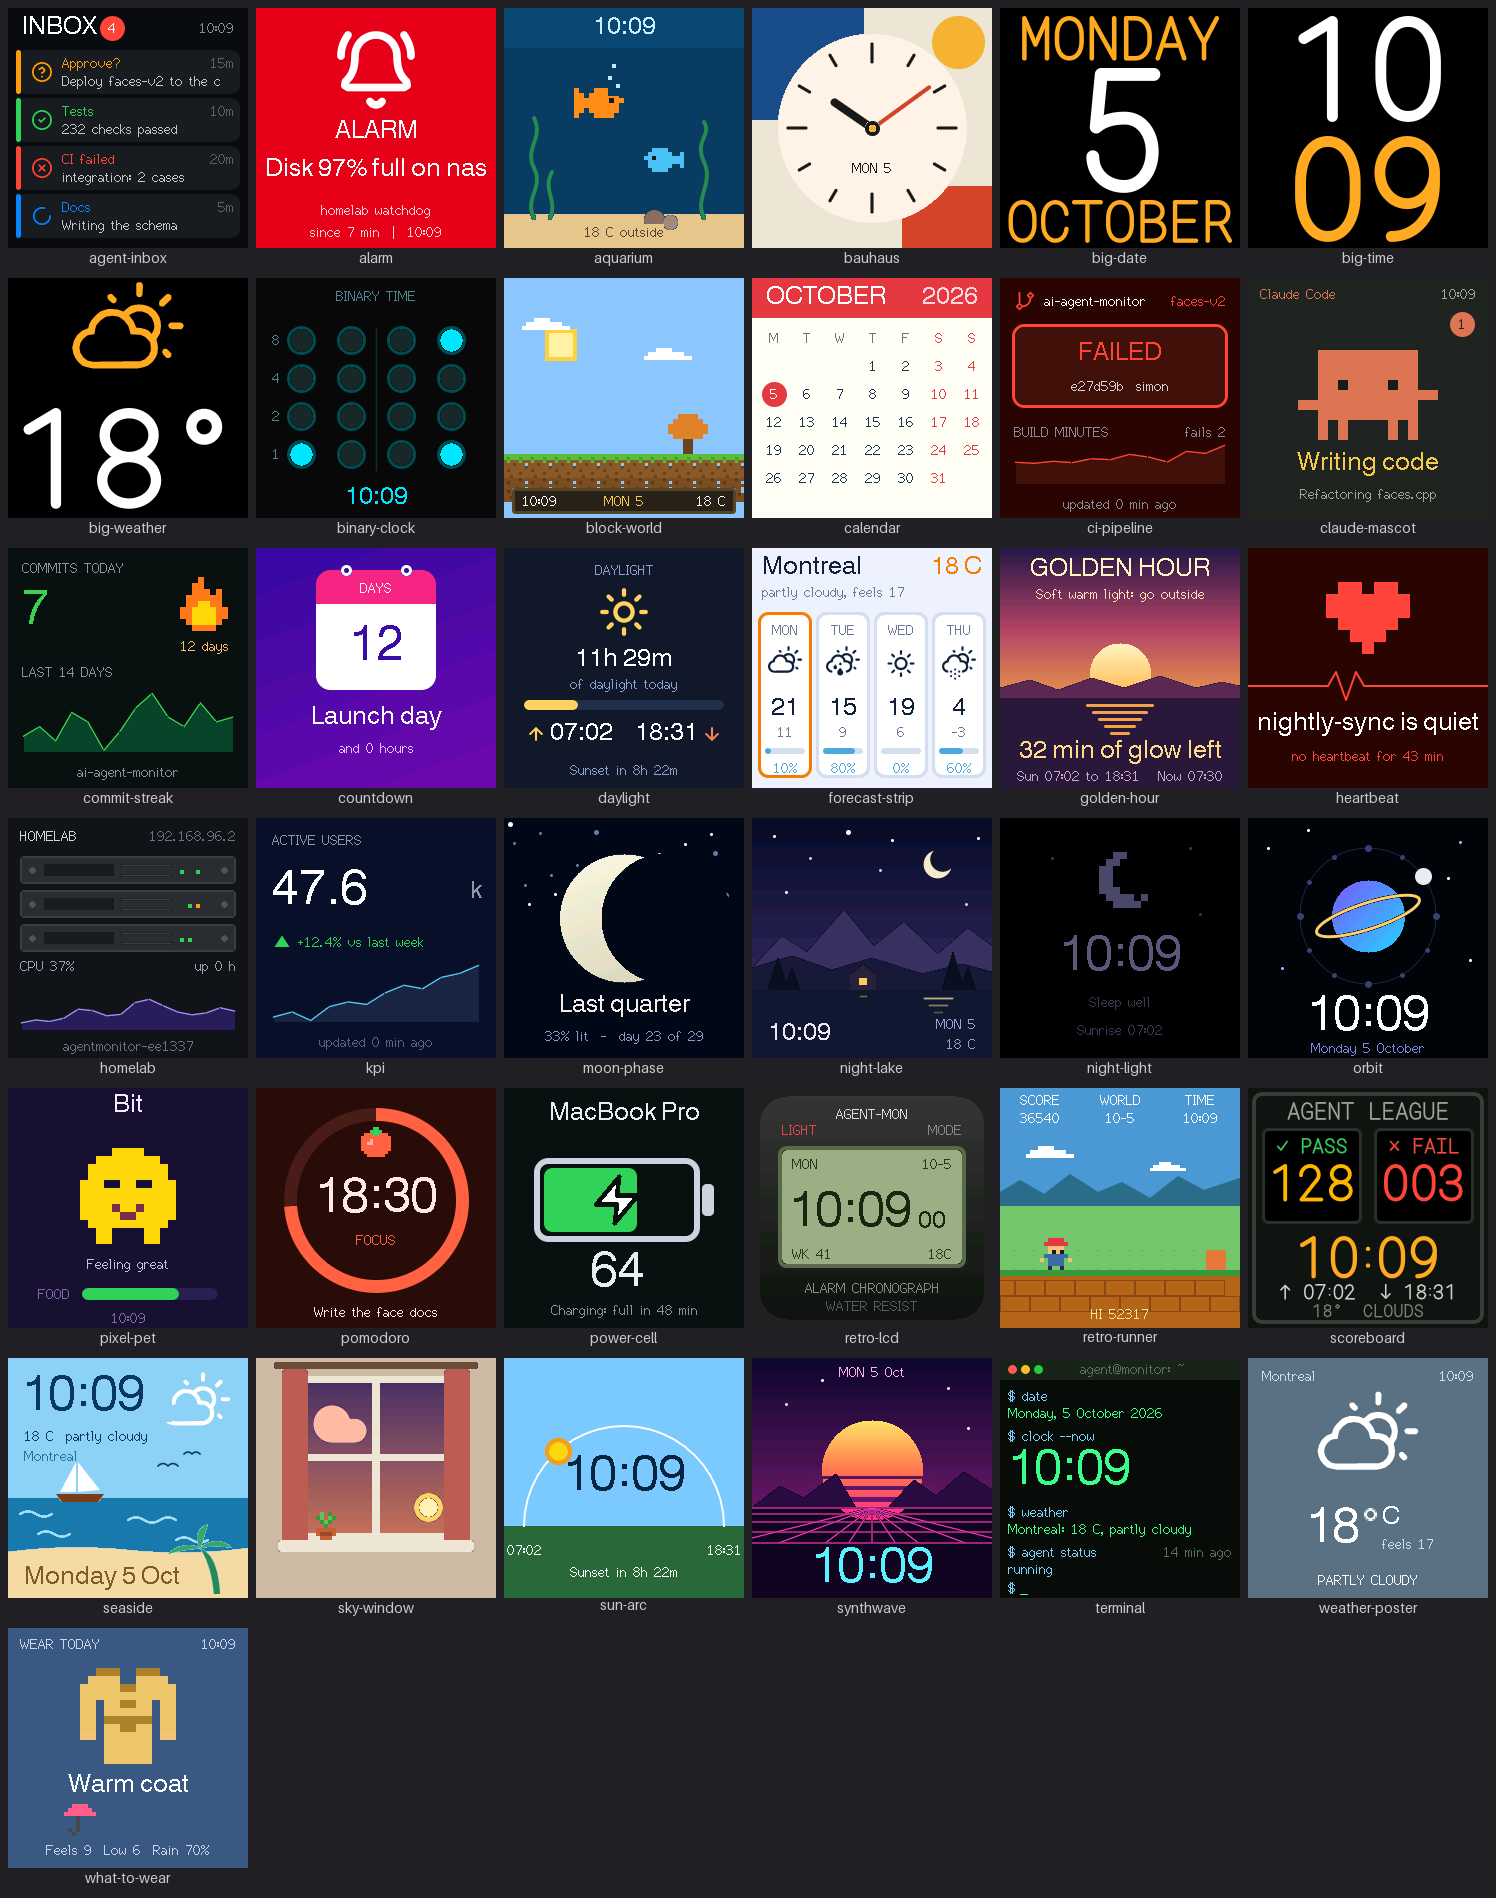
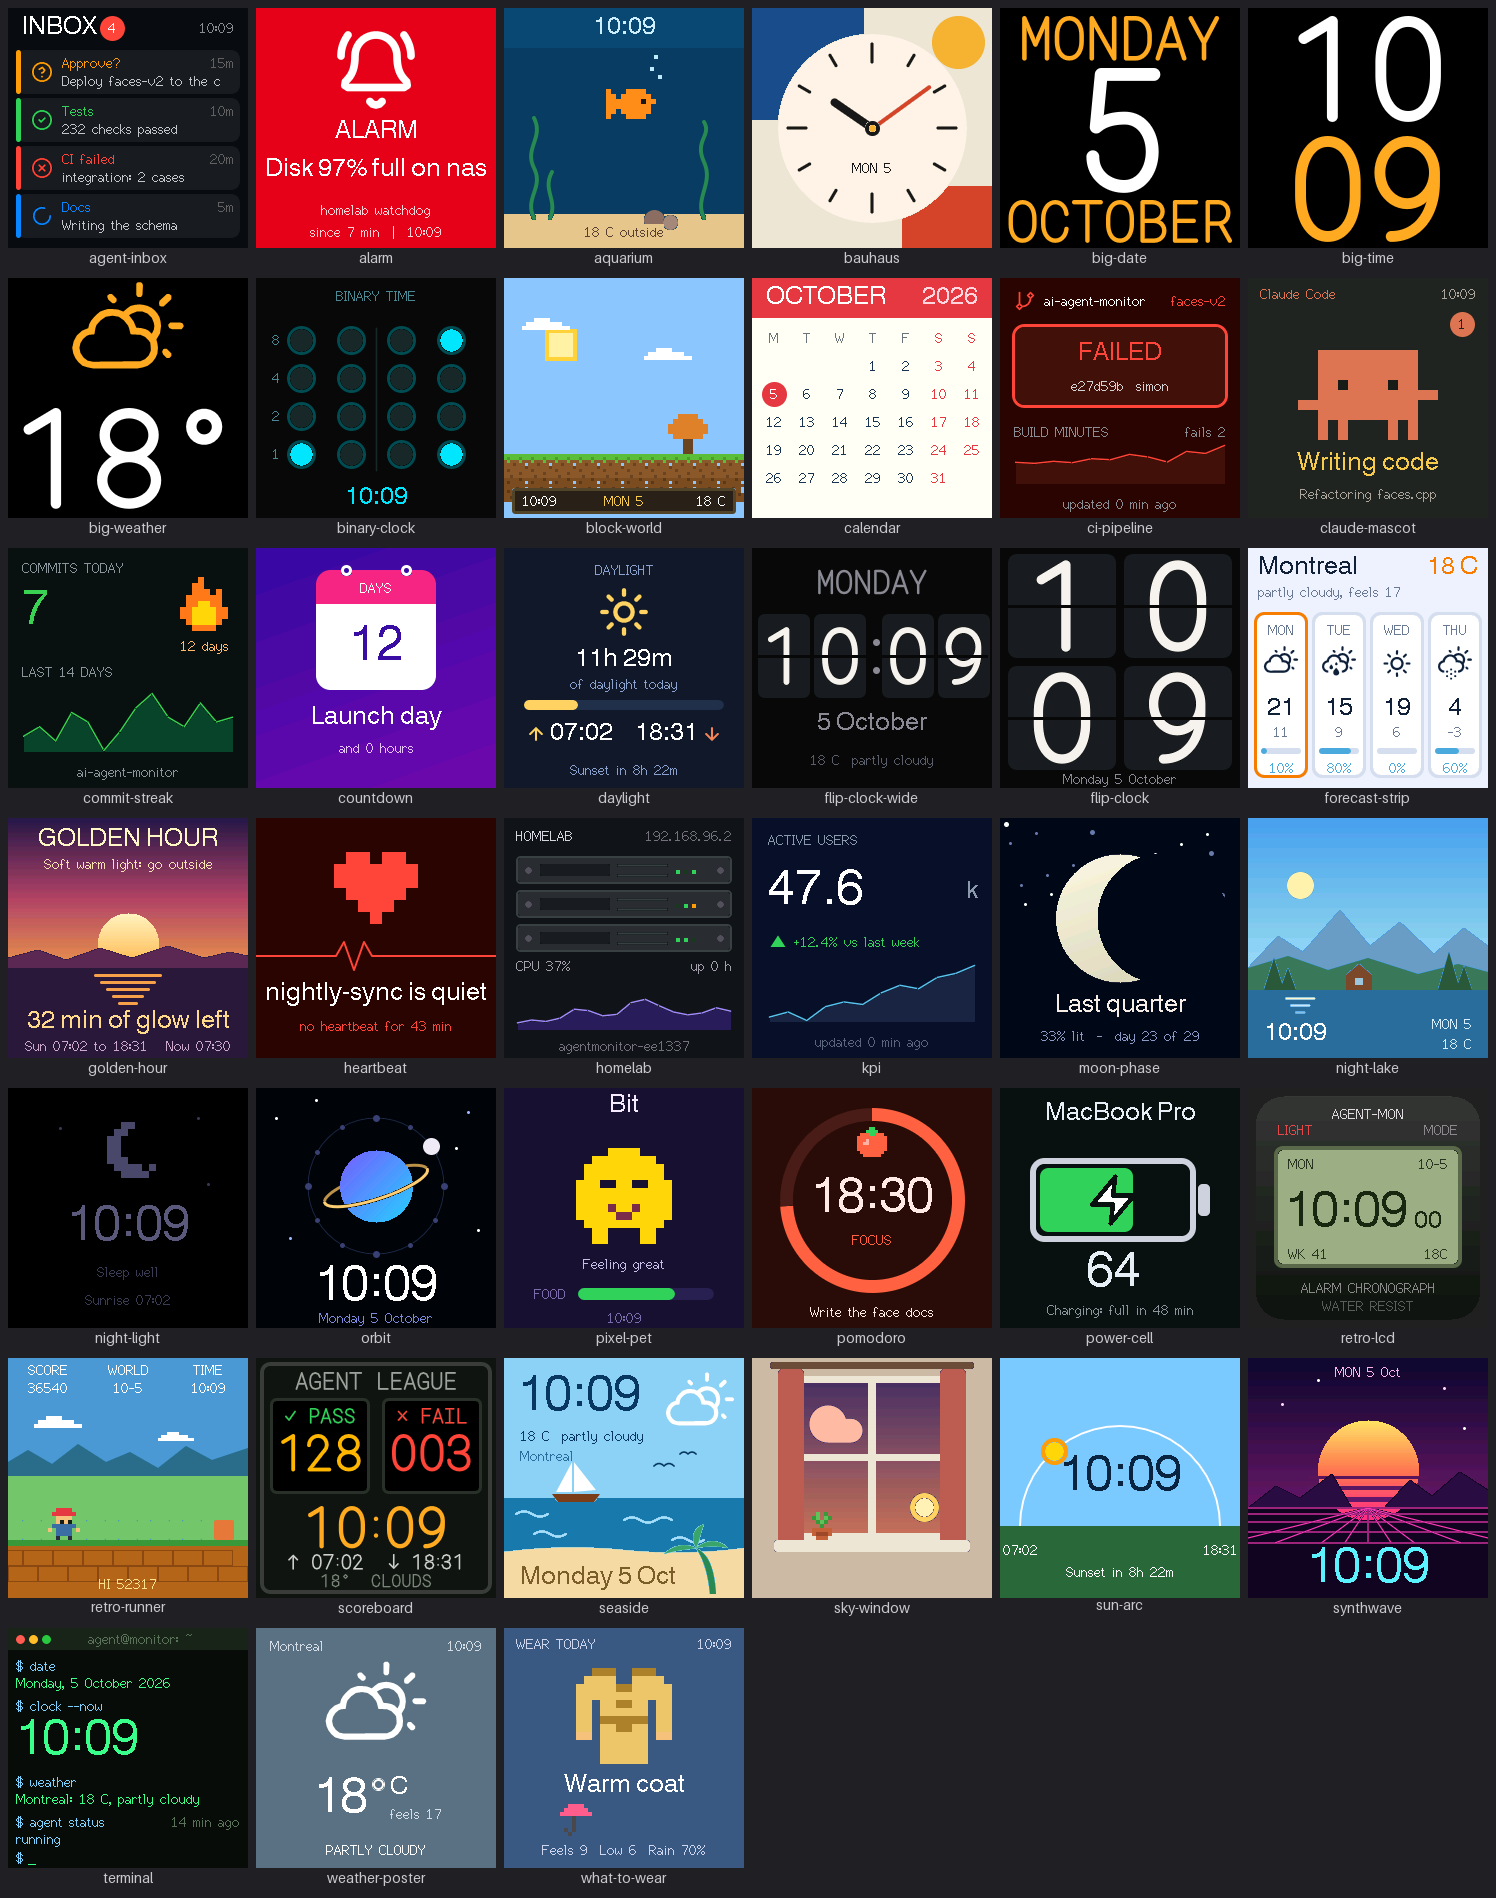
feat(examples): flip clocks, a night lake through the day, and face fixes
- New: flip-clock and flip-clock-wide, a leaf folding on each digit change.
- night-lake: night, dawn, day and dusk palettes; the sun and moon cross the
  sky and set behind the hills, their reflection follows them on the lake.
- aquarium: the fish swim, bubbles follow the orange one.
- claude-mascot: rising "z Z Z" while asleep.
- orbit: the ring passes behind the planet; sun-arc: the sun sets behind the
  grass; seaside: the weather icon is no longer cut by the time's padding.

diff --git a/examples/faces/README.md b/examples/faces/README.md
@@ -1,6 +1,6 @@
 # Example custom faces
 
-37 faces to use as they are, adapt, or learn the format from. Each is a JSON file to
+39 faces to use as they are, adapt, or learn the format from. Each is a JSON file to
 push to the clock (`POST /api/faces`, or `python clock.py push <name> <file>` from the
 Claude Code skill); the format is in
 [docs/specifications/integrations-api.md](../../docs/specifications/integrations-api.md#custom-faces).
@@ -18,8 +18,10 @@ curl -X POST "http://<clock>/api/faces/vars?key=<api key>" -d '{"pet": "Bit", "m
 
 | | Face | Shows how to |
 |---|---|---|
+| ![](../../docs/images/faces/flip-clock.png) | **flip-clock**: a flip clock, hours above minutes | One card per digit, `"font": "big"`; on the minute a leaf folds down to the hinge and the next drops, from `{time.sec}==0` and `{time.ms}` (`"fps": 10`); only the cards whose digit changed flip |
+| ![](../../docs/images/faces/flip-clock-wide.png) | **flip-clock-wide**: the flip clock on one line | The same cards, four in a row, with the day above and the date and weather below |
 | ![](../../docs/images/faces/bauhaus.png) | **bauhaus**: an analog clock in primary colours | Draw hands with `line` items and `sin`/`cos` expressions |
-| ![](../../docs/images/faces/orbit.png) | **orbit**: a planet that orbits once an hour | Move an item along a circle; hour marks from one `repeat` |
+| ![](../../docs/images/faces/orbit.png) | **orbit**: a ringed planet and a moon that orbits once an hour | Move an item along a circle; hour marks from one `repeat`; the ring in two halves, one drawn before the planet and one after |
 | ![](../../docs/images/faces/retro-lcd.png) | **retro-lcd**: a 1980s digital watch | Layer opaque text (`bg`) on a panel; `{date.week}` |
 | ![](../../docs/images/faces/binary-clock.png) | **binary-clock**: hours and minutes in binary | Compute every bit of a `repeat` of 16 with an expression |
 | ![](../../docs/images/faces/calendar.png) | **calendar**: the month, today circled | A 6-week grid from `{date.wdaynum}`, `{date.mdays}` and one `repeat`; weekday initials from a map |
@@ -35,13 +37,13 @@ curl -X POST "http://<clock>/api/faces/vars?key=<api key>" -d '{"pet": "Bit", "m
 |---|---|---|
 | ![](../../docs/images/faces/forecast-strip.png) | **forecast-strip**: four days at a glance | `repeat` over `"days"` with `{it.*}`; a day/night palette; a border on today |
 | ![](../../docs/images/faces/weather-poster.png) | **weather-poster**: the sky's colour | A palette picked from `{now.code}` by an expression |
-| ![](../../docs/images/faces/sun-arc.png) | **sun-arc**: the sun's path across the sky | Place the sun from `{sun.until_set}` and `{sun.daylen}`; a moon at night |
+| ![](../../docs/images/faces/sun-arc.png) | **sun-arc**: the sun's path across the sky | Place the sun from `{sun.until_set}` and `{sun.daylen}`; a moon at night; drawn before the ground, so both set behind it |
 | ![](../../docs/images/faces/daylight.png) | **daylight**: day length and the next sunset | Hours and minutes from minutes in text expressions; sun or moon by `show` |
 | ![](../../docs/images/faces/moon-phase.png) | **moon-phase**: tonight's moon | Shade the moon from `{moon.lit}`; phase names from a map; a starfield `repeat` |
 | ![](../../docs/images/faces/seaside.png) | **seaside**: a beach that turns to night | A day/night palette; the weather icon |
-| ![](../../docs/images/faces/night-lake.png) | **night-lake**: mountains under the moon | Layered SVG paths |
+| ![](../../docs/images/faces/night-lake.png) | **night-lake**: a mountain lake through the day | Layered SVG paths; four palettes (night, dawn, day, dusk) chosen from `{sun.*}`; the sun and moon cross the sky and set behind the hills, their reflection follows them on the lake |
 | ![](../../docs/images/faces/synthwave.png) | **synthwave**: an 80s sunset | Gradients on paths and circles |
-| ![](../../docs/images/faces/aquarium.png) | **aquarium**: fish that swim in place | Animated `sprite` frames with a `bg`, so only they redraw |
+| ![](../../docs/images/faces/aquarium.png) | **aquarium**: fish that swim across | `sprite`s whose `x` and `y` follow `{time.sec}` and `{time.ms}`, with tail frames, and bubbles that follow the orange fish; a moving sprite repaints only around itself |
 | ![](../../docs/images/faces/what-to-wear.png) | **what-to-wear**: dress for today's weather | A palette and an outfit `sprite` frame from feels-like bands (°F converted in the expression); an umbrella, sunglasses or a scarf by `show` |
 | ![](../../docs/images/faces/sky-window.png) | **sky-window**: the sky through a window | A gradient from a palette picked by time of day (dawn, day, dusk, night) and weather; clouds from `{now.clouds}`; rain, snow or fog `repeat`s; a moon shaded by `{moon.lit}`; walls drawn last to clip the sky |
 | ![](../../docs/images/faces/golden-hour.png) | **golden-hour**: the hour of warm light | `"when"`: only in the hour after sunrise and before sunset, with its own `duration`; the sun sinks with `{sun.until_set}` |
@@ -61,7 +63,7 @@ curl -X POST "http://<clock>/api/faces/vars?key=<api key>" -d '{"pet": "Bit", "m
 | ![](../../docs/images/faces/homelab.png) | **homelab**: servers and CPU | Blinking LED sprites; `{net.ip}`, `{net.host}`, `{sys.uptime}`; a `spark`. Push `cpu` with `$history` |
 | ![](../../docs/images/faces/power-cell.png) | **power-cell**: a battery | A width from a value; colour by level; a bolt shown while charging. Push `batt`, `charging` (1 or 0), `eta`, `device` |
 | ![](../../docs/images/faces/pixel-pet.png) | **pixel-pet**: a pet that needs feeding | A blinking `sprite` coloured by mood through a map; a food bar. Push `pet`, `mood` (`happy`, `hungry`, `sleepy`), `food` (0-100) |
-| ![](../../docs/images/faces/claude-mascot.png) | **claude-mascot**: Claude Code at work | One `sprite` with 9 frames chosen by an expression: typing, cheering, thinking, a slump on failure, asleep at night; a message badge. Push `state` (`thinking`, `working`, `done`, `fail`, or none), `task` |
+| ![](../../docs/images/faces/claude-mascot.png) | **claude-mascot**: Claude Code at work | One `sprite` with 9 frames chosen by an expression: typing, cheering, thinking, a slump on failure, asleep at night under rising "z Z Z" (a second `sprite` with 4 frames); a message badge. Push `state` (`thinking`, `working`, `done`, `fail`, or none), `task` |
 | ![](../../docs/images/faces/scoreboard.png) | **scoreboard**: passes and failures, stadium style | Big text with `✓ ✗ ↑ ↓`; zero-padded numbers (`{fail:03|000}`); a colour from a value (`{fail}>0`); `@time`. Push `pass` and `fail` (with `$add`) |
 
 ## Games and worlds
